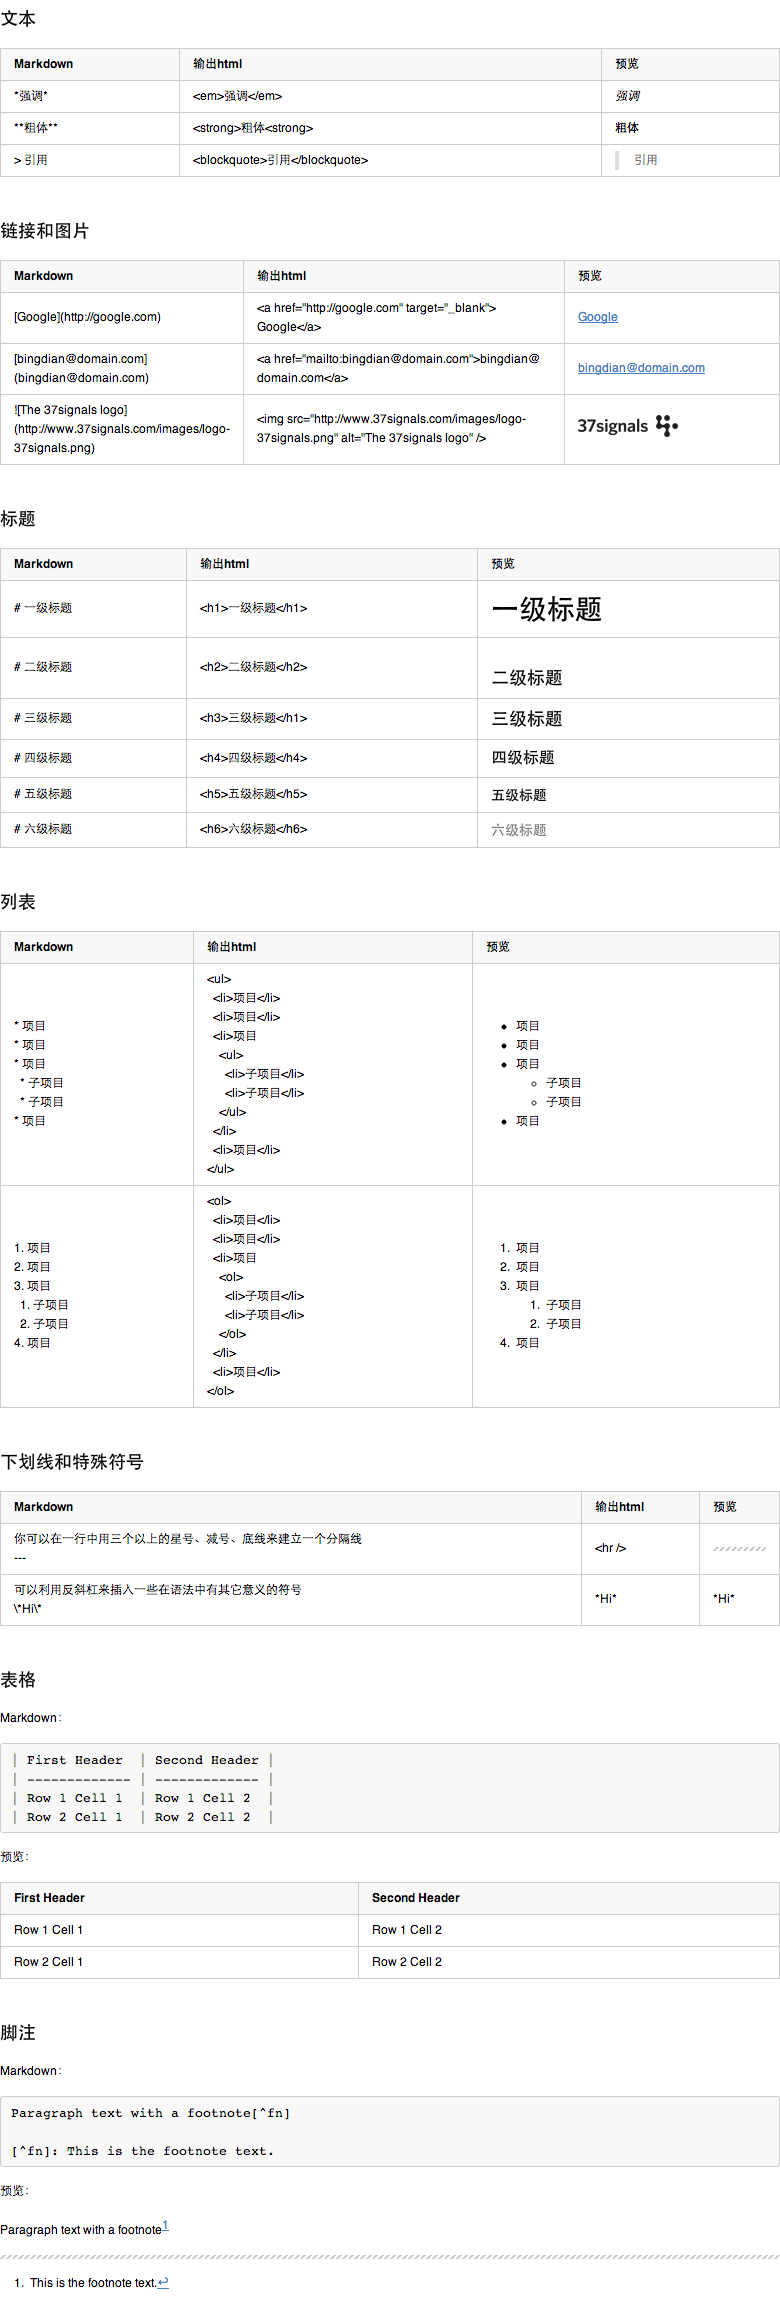
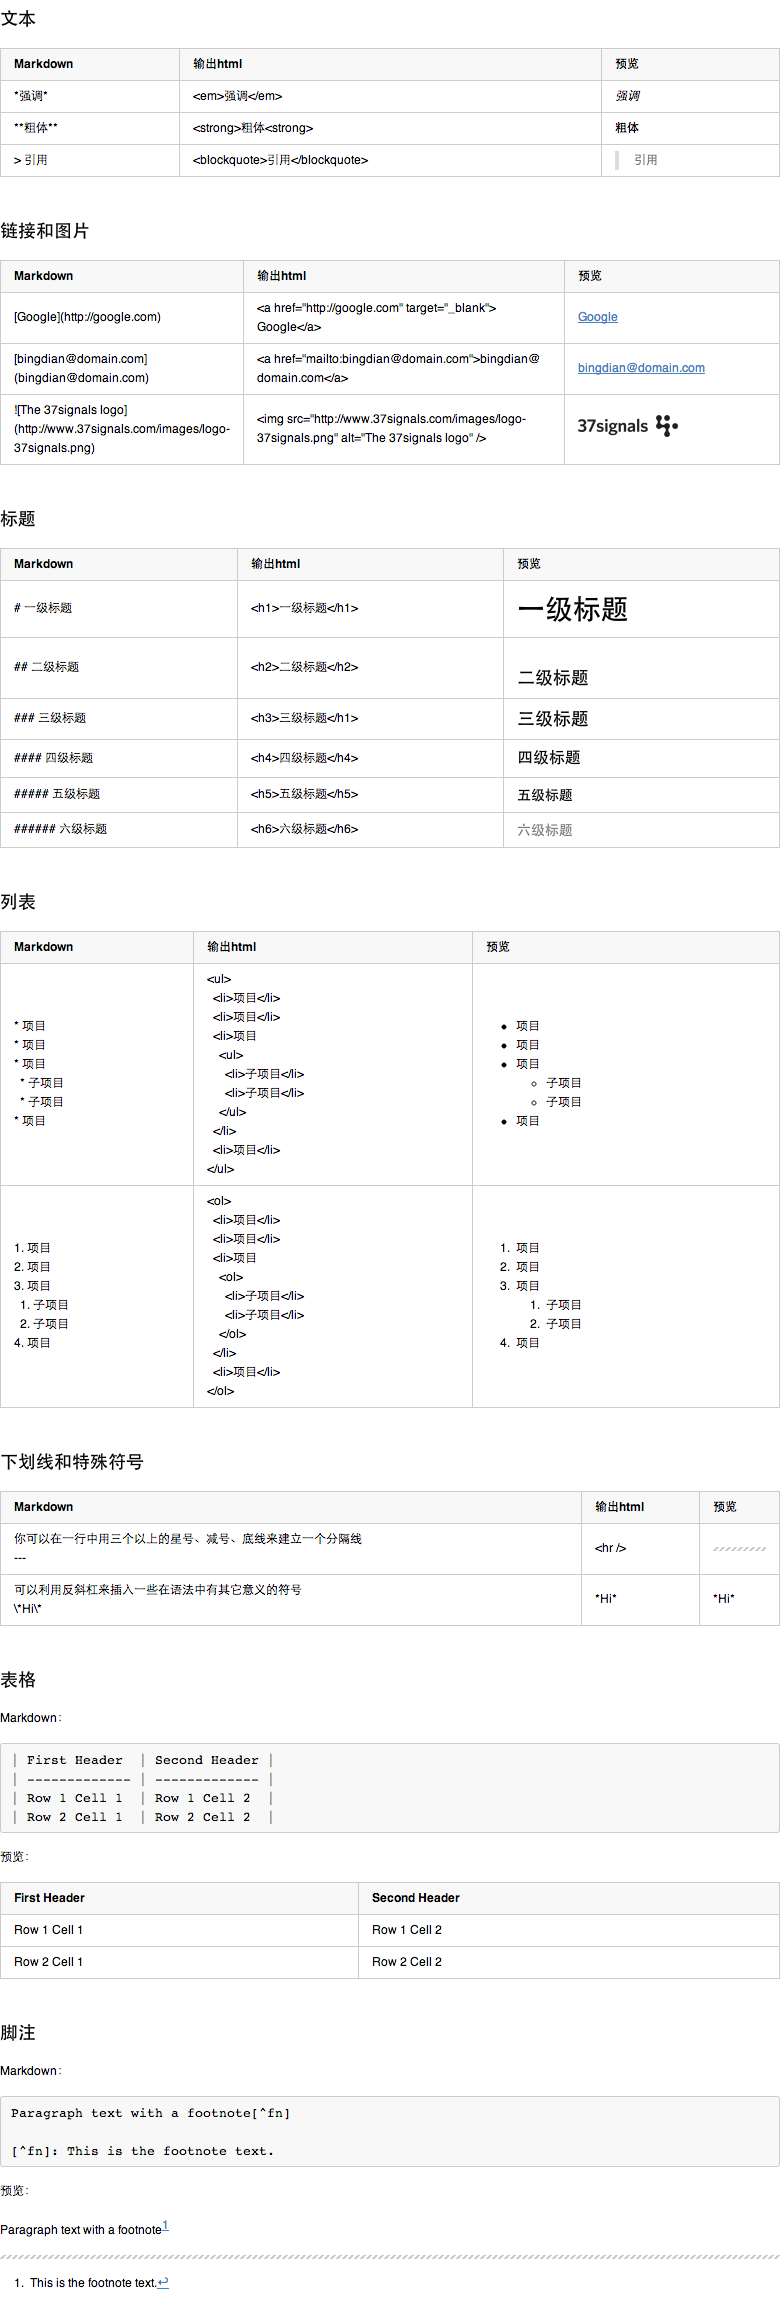
update post

Changed region(s): [[0.6154, 0.2162, 0.8, 0.3706], [0.2769, 0.2471, 0.4615, 0.3706], [0.0308, 0.2779, 0.1231, 0.3706]]

diff --git a/_source/content/demo/code/markdown-syntax.html b/_source/content/demo/code/markdown-syntax.html
@@ -5,7 +5,7 @@
 <meta name="viewport" content="width=device-width, initial-scale=1.0, user-scalable=no">
 <style>
 body {
-  width: 740px;
+  width: 780px;
   font-family: Helvetica, arial, sans-serif;
   font-size: 12px;
   line-height: 1.6;
@@ -372,27 +372,27 @@ pre {
     <td><h1>一级标题</h1></td>
   </tr>
   <tr>
-    <td># 二级标题</td>
+    <td>## 二级标题</td>
     <td>&lt;h2>二级标题&lt;/h2></td>
     <td><h2>二级标题</h2></td>
   </tr>
   <tr>
-    <td># 三级标题</td>
+    <td>### 三级标题</td>
     <td>&lt;h3>三级标题&lt;/h1></td>
     <td><h3>三级标题</h3></td>
   </tr>
   <tr>
-    <td># 四级标题</td>
+    <td>#### 四级标题</td>
     <td>&lt;h4>四级标题&lt;/h4></td>
     <td><h4>四级标题</h4></td>
   </tr>
   <tr>
-    <td># 五级标题</td>
+    <td>##### 五级标题</td>
     <td>&lt;h5>五级标题&lt;/h5></td>
     <td><h5>五级标题</h5></td>
   </tr>
   <tr>
-    <td># 六级标题</td>
+    <td>###### 六级标题</td>
     <td>&lt;h6>六级标题&lt;/h6></td>
     <td><h6>六级标题</h6></td>
   </tr>

diff --git a/demo/code/markdown-syntax.html b/demo/code/markdown-syntax.html
@@ -372,27 +372,27 @@ pre {
     <td><h1>一级标题</h1></td>
   </tr>
   <tr>
-    <td># 二级标题</td>
+    <td>## 二级标题</td>
     <td>&lt;h2>二级标题&lt;/h2></td>
     <td><h2>二级标题</h2></td>
   </tr>
   <tr>
-    <td># 三级标题</td>
+    <td>### 三级标题</td>
     <td>&lt;h3>三级标题&lt;/h1></td>
     <td><h3>三级标题</h3></td>
   </tr>
   <tr>
-    <td># 四级标题</td>
+    <td>#### 四级标题</td>
     <td>&lt;h4>四级标题&lt;/h4></td>
     <td><h4>四级标题</h4></td>
   </tr>
   <tr>
-    <td># 五级标题</td>
+    <td>##### 五级标题</td>
     <td>&lt;h5>五级标题&lt;/h5></td>
     <td><h5>五级标题</h5></td>
   </tr>
   <tr>
-    <td># 六级标题</td>
+    <td>###### 六级标题</td>
     <td>&lt;h6>六级标题&lt;/h6></td>
     <td><h6>六级标题</h6></td>
   </tr>
